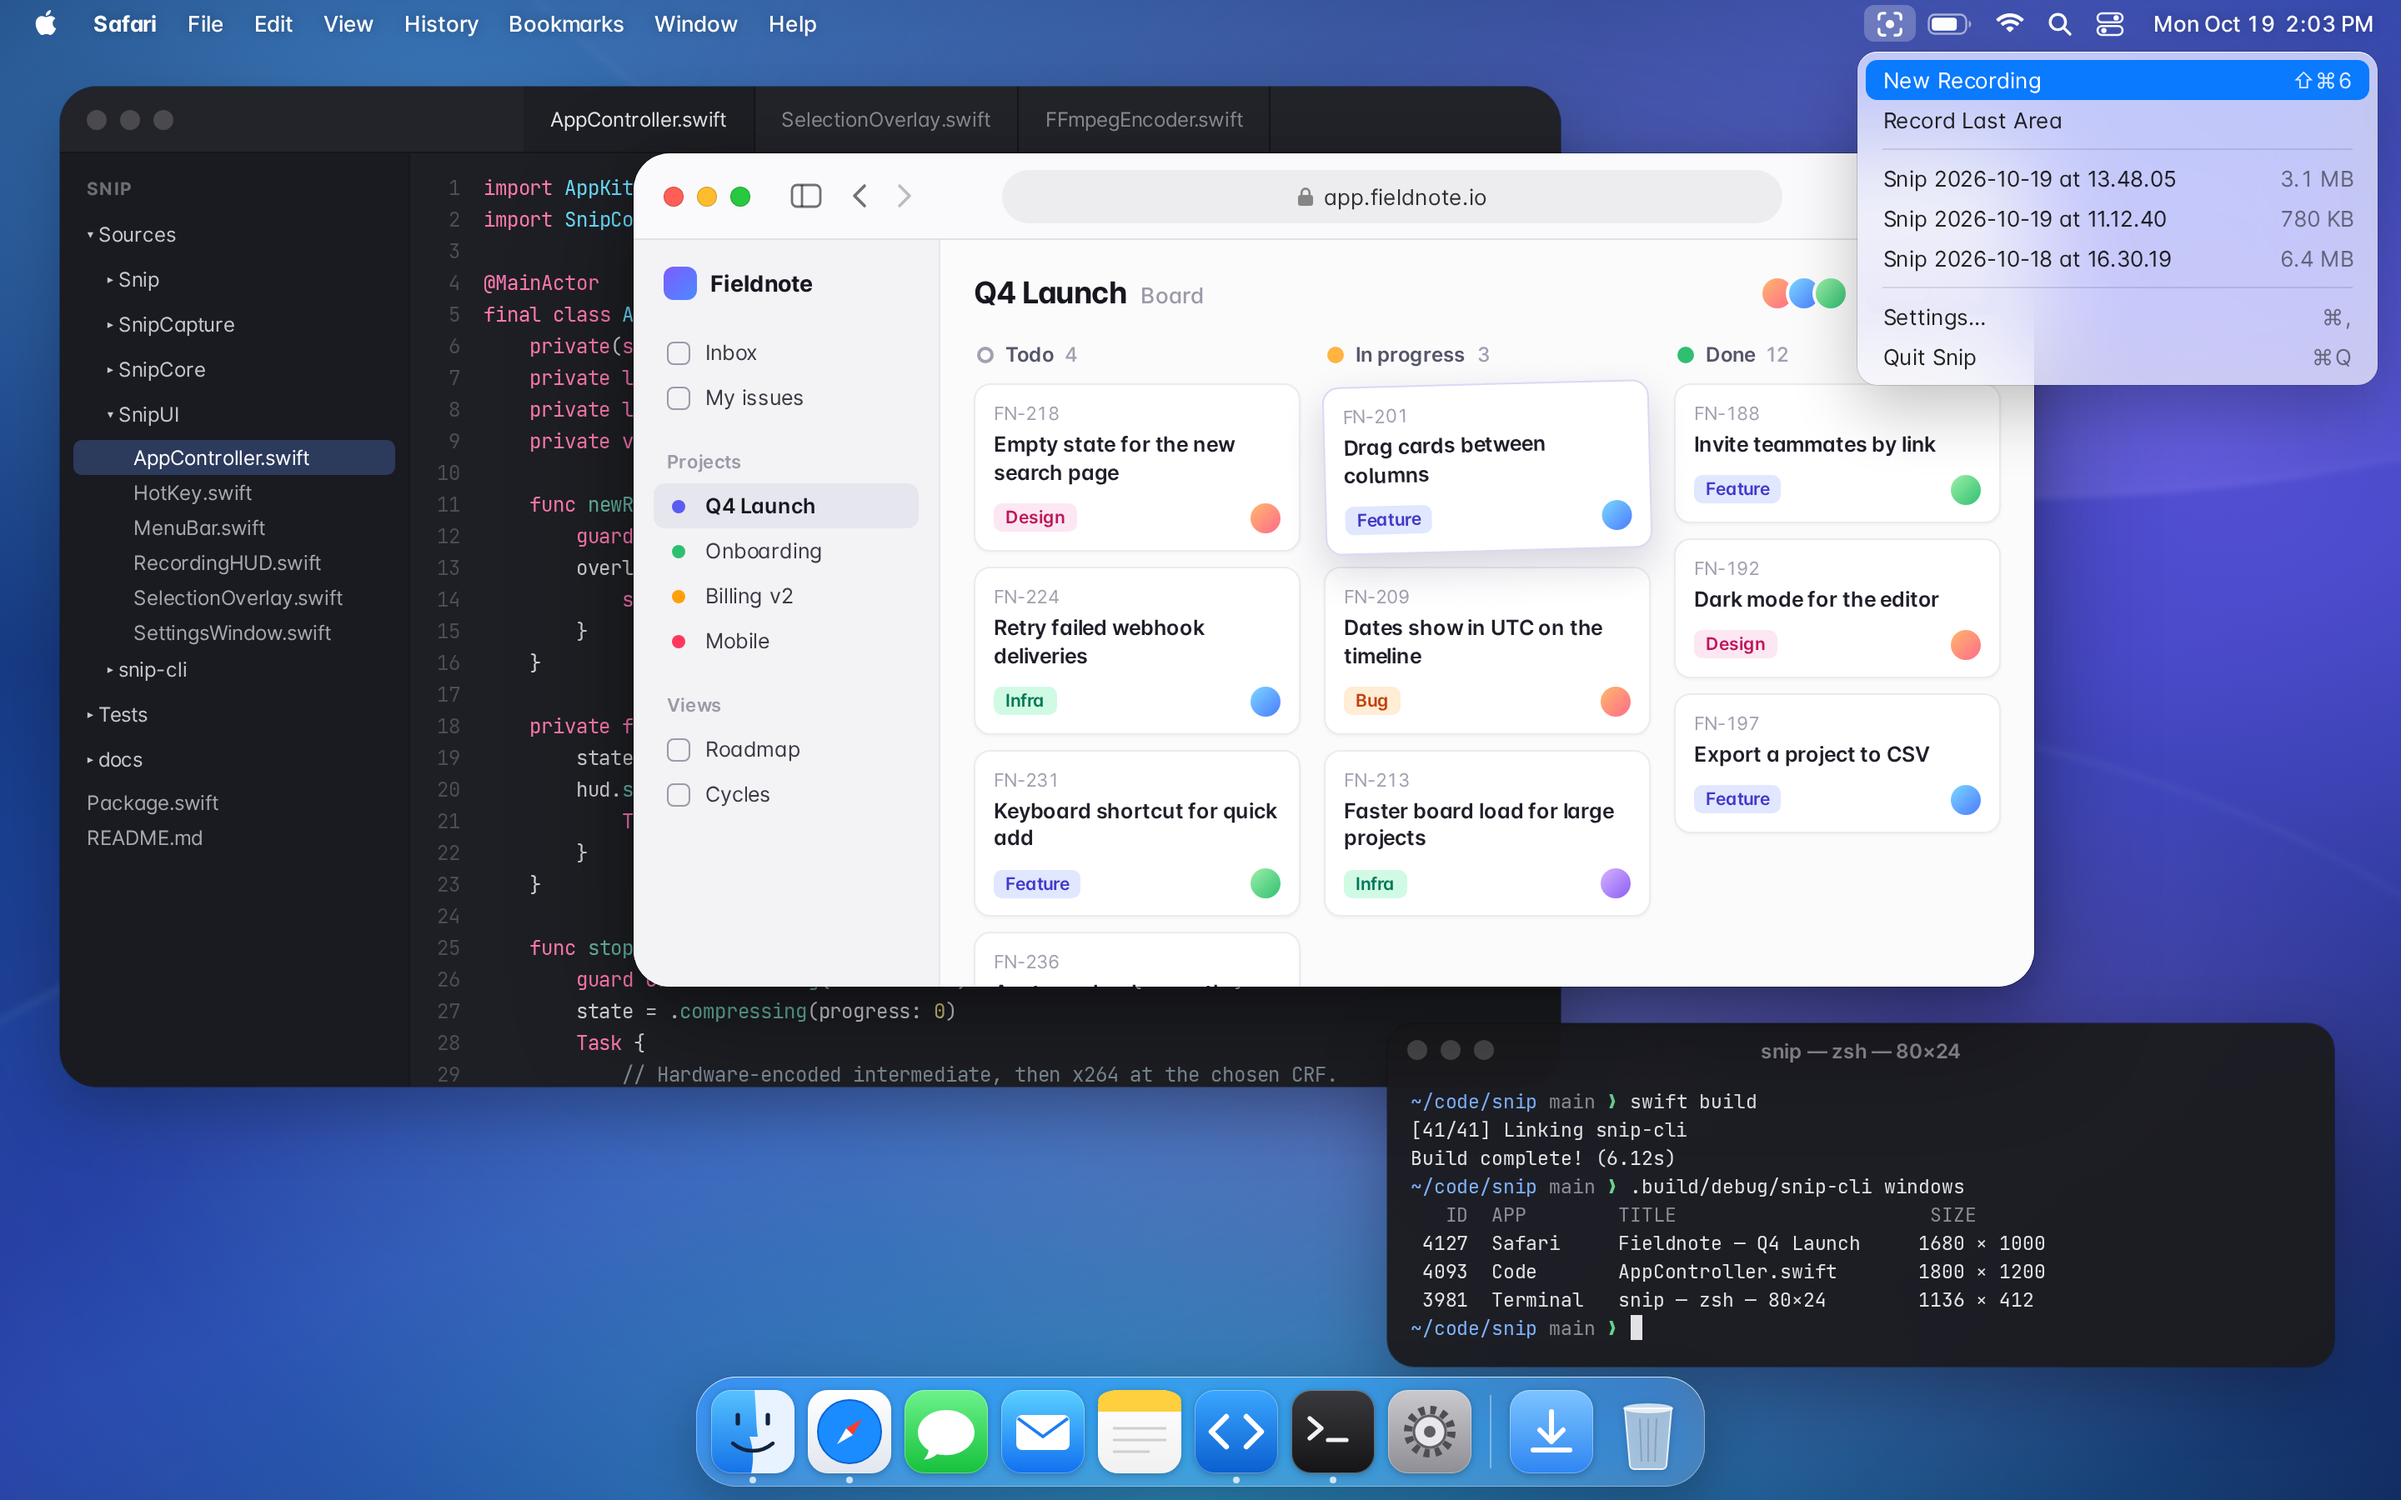
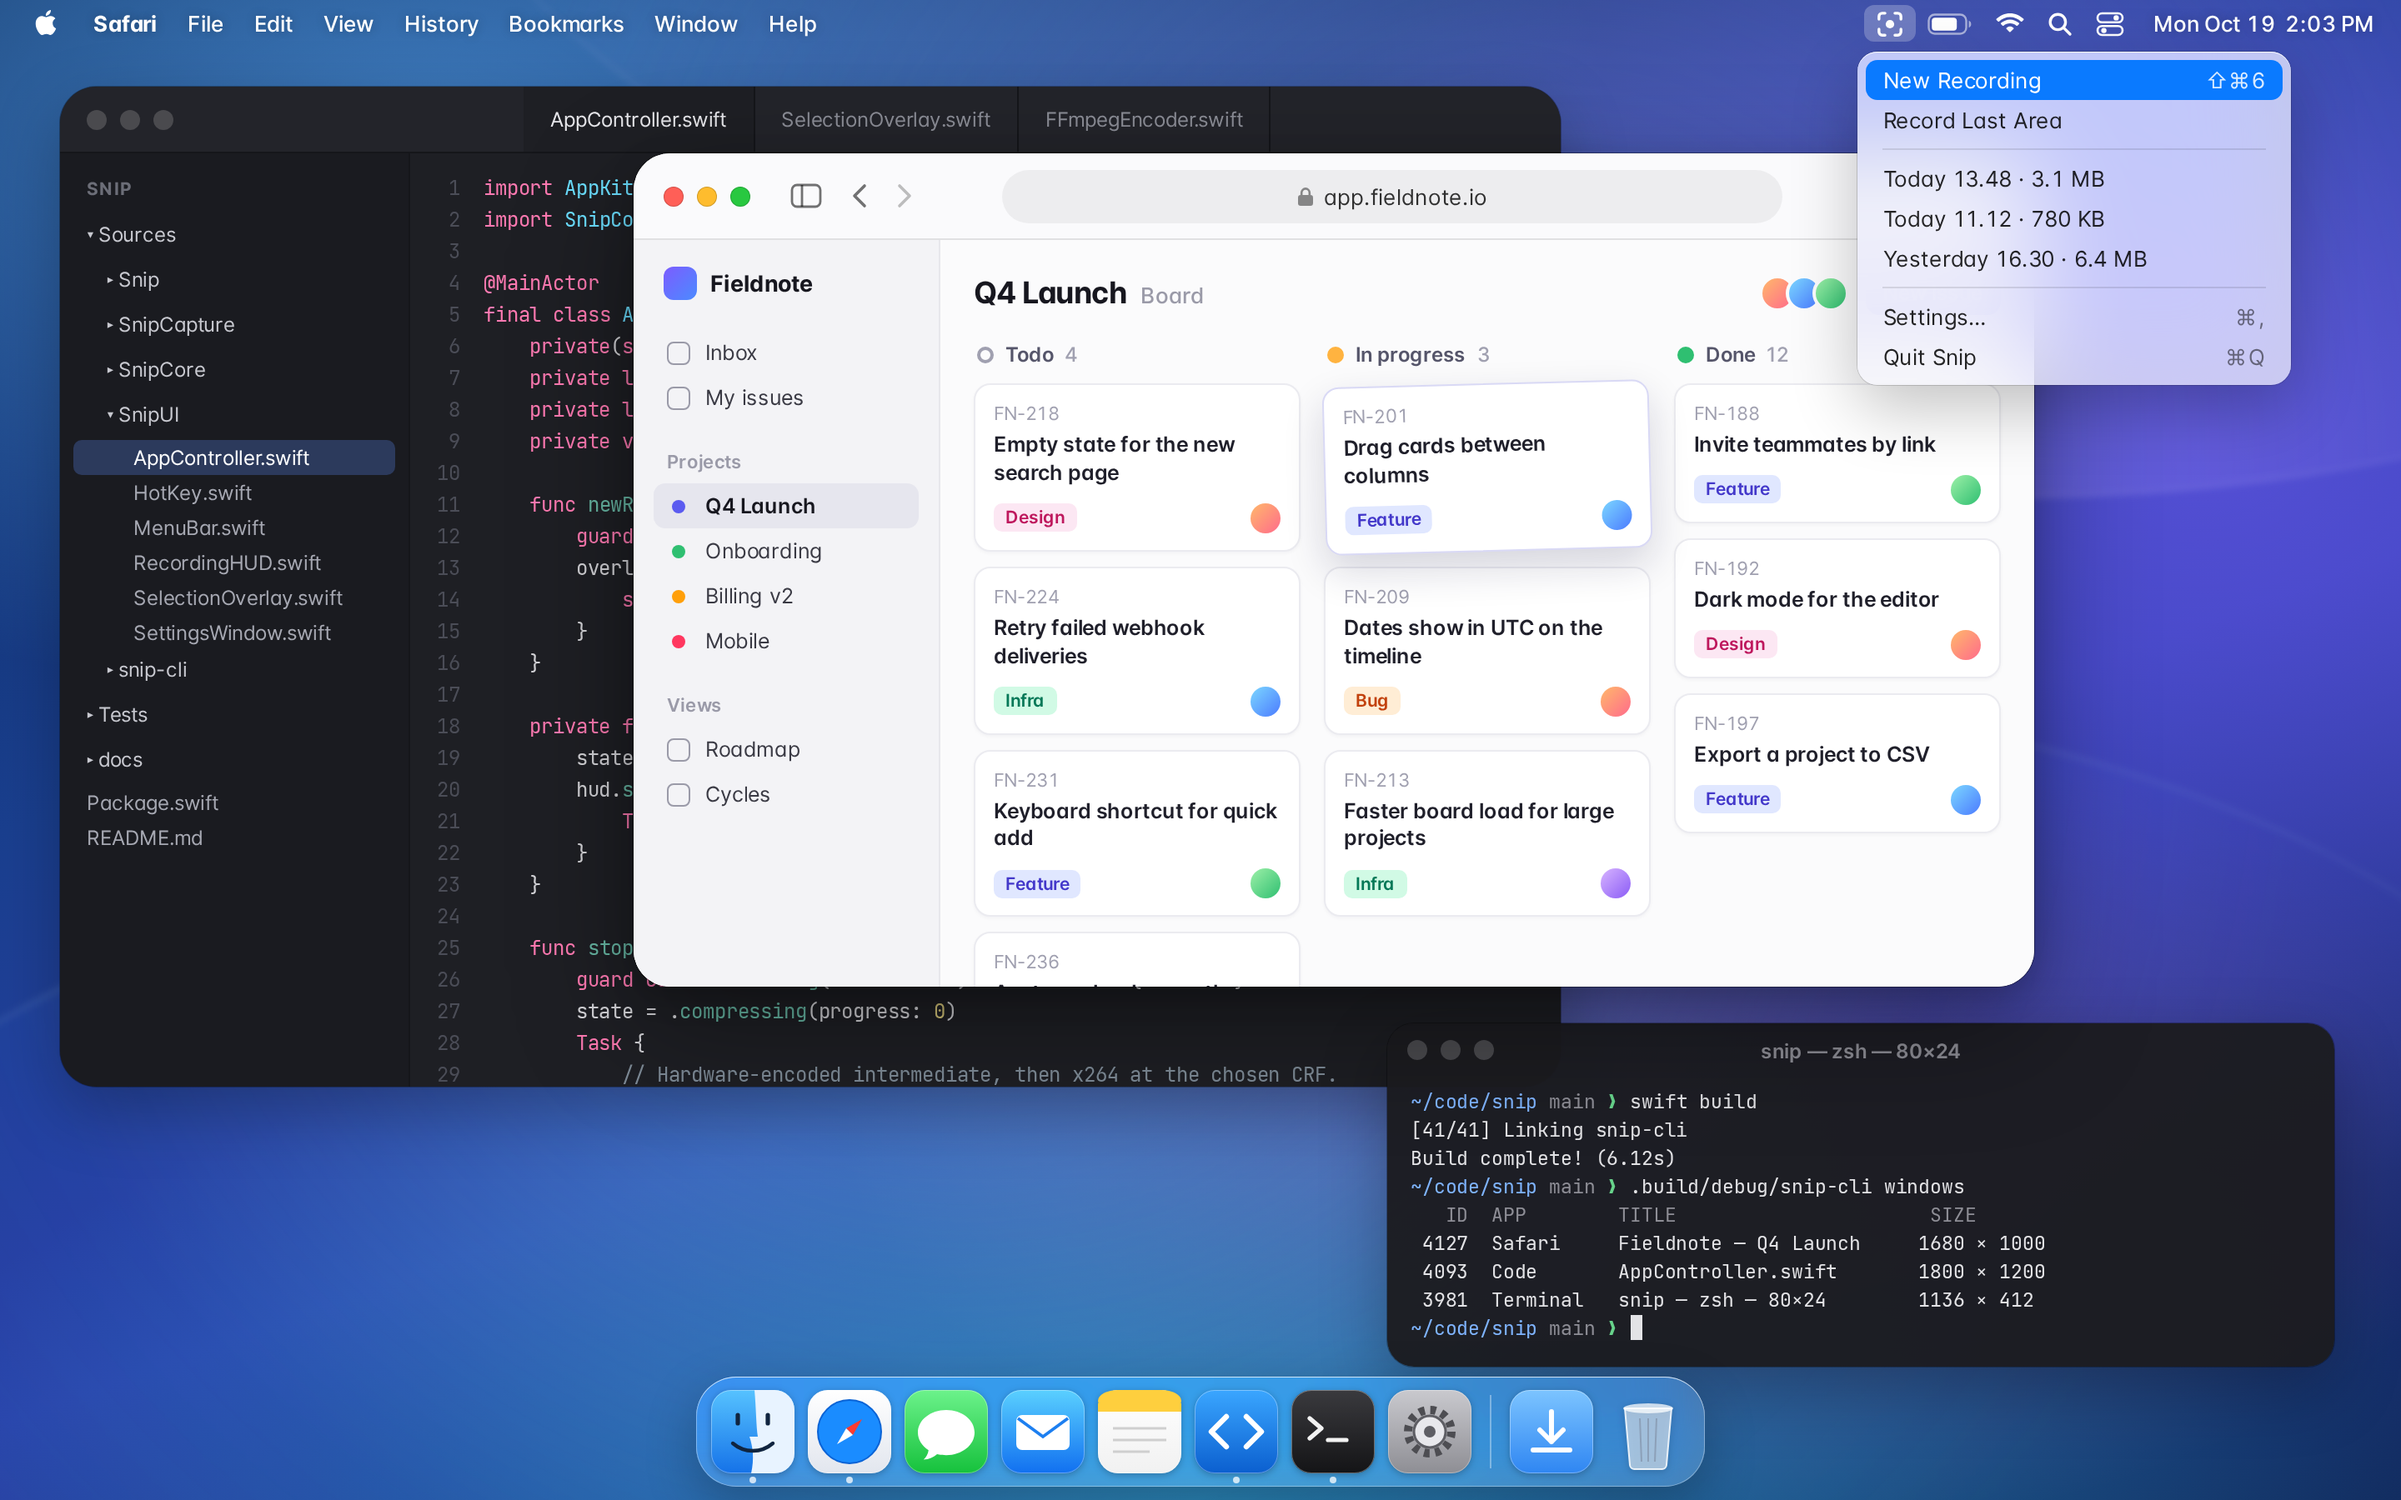
Mockups: close-ups of steps 1 to 7, red stop button while recording, shorter recent recordings

Changed region(s): [[0.9375, 0.0311, 1.0, 0.28], [0.7812, 0.0933, 0.9062, 0.1867]]

diff --git a/docs/mockups/01-menu.html b/docs/mockups/01-menu.html
@@ -1,15 +1,14 @@
 <!doctype html>
 <html><head><meta charset="utf-8"><title>1 · Menu bar menu</title>
+<meta name="mockup-closeup" content="880,0,560,420">
 <link rel="stylesheet" href="desktop.css">
 <style>
   .menu {
-    position: absolute; top: 31px; width: 312px; padding: 5px; border-radius: 12px; z-index: 60;
+    position: absolute; top: 31px; width: 260px; padding: 5px; border-radius: 12px; z-index: 60;
     font-size: 13px;
   }
   .menu .row { height: 24px; padding: 0 10px; border-radius: 7px; display: flex; align-items: center; justify-content: space-between; }
   .menu .row.hi { background: var(--accent); color: #fff; }
-  .menu .row .r { color: var(--secondary); font-variant-numeric: tabular-nums; }
-  .menu .row.hi .r { color: rgba(255, 255, 255, 0.8); }
   .menu .row .k { color: var(--secondary); letter-spacing: 0.06em; }
   .menu .row.hi .k { color: rgba(255, 255, 255, 0.85); }
   .menu hr { border: 0; height: 1px; background: rgba(0, 0, 0, 0.1); margin: 5px 10px; }
@@ -21,9 +20,9 @@
   <div class="row hi"><span>New Recording</span><span class="k">⇧⌘6</span></div>
   <div class="row"><span>Record Last Area</span></div>
   <hr>
-  <div class="row"><span>Snip 2026-10-19 at 13.48.05</span><span class="r">3.1 MB</span></div>
-  <div class="row"><span>Snip 2026-10-19 at 11.12.40</span><span class="r">780 KB</span></div>
-  <div class="row"><span>Snip 2026-10-18 at 16.30.19</span><span class="r">6.4 MB</span></div>
+  <div class="row"><span class="num">Today 13.48 · 3.1 MB</span></div>
+  <div class="row"><span class="num">Today 11.12 · 780 KB</span></div>
+  <div class="row"><span class="num">Yesterday 16.30 · 6.4 MB</span></div>
   <hr>
   <div class="row"><span>Settings…</span><span class="k">⌘,</span></div>
   <div class="row"><span>Quit Snip</span><span class="k">⌘Q</span></div>

diff --git a/docs/mockups/desktop.js b/docs/mockups/desktop.js
@@ -1,7 +1,6 @@
 // Draws the shared desktop (wallpaper, menu bar, three windows, Dock) into <div id="desktop">.
 // Each step page adds its own Snip overlay on top. Options come from <body data-*>:
 //   data-snip="idle | open | recording"  how the Snip menu bar item looks
-//   data-elapsed="0:12"                   time shown in the menu bar while recording
 
 // Geometry the step pages share, in points on the 1440 × 900 screen.
 window.GEO = {
@@ -197,9 +196,9 @@ function safari() {
   </div>`;
 }
 
-function menubar(snip, elapsed) {
+function menubar(snip) {
   const snipItem = snip === 'recording'
-    ? `<div class="item snip-rec" id="snip-item">${ICON.snip('#fff').replace('width="17" height="17"', 'width="14" height="14"')}<span class="num">${elapsed}</span></div>`
+    ? '<div class="item" id="snip-item"><span class="snip-rec"><i></i></span></div>'
     : `<div class="item ${snip === 'open' ? 'open' : ''}" id="snip-item">${ICON.snip()}</div>`;
   return `
   <div class="menubar">
@@ -229,5 +228,5 @@ window.SNIP_ICON = ICON.snip;
 (function draw() {
   const d = document.body.dataset;
   document.getElementById('desktop').innerHTML =
-    '<div class="wallpaper"></div>' + editor() + terminal() + safari() + dock() + menubar(d.snip || 'idle', d.elapsed || '0:00');
+    '<div class="wallpaper"></div>' + editor() + terminal() + safari() + dock() + menubar(d.snip || 'idle');
 })();

diff --git a/docs/mockups/desktop.css b/docs/mockups/desktop.css
@@ -78,11 +78,13 @@ body {
 .menubar .clock { padding: 0 6px 0 10px !important; }
 .menubar .item.open { background: rgba(255, 255, 255, 0.24); }
 
-/* The Snip status item while recording: red, with the elapsed time. */
+/* The Snip status item while recording: a red stop button (the pill has the time). */
 .menubar .snip-rec {
-  background: var(--record); border-radius: 6px; height: 20px; padding: 0 7px 0 6px !important;
-  font-weight: 600; text-shadow: none; gap: 5px;
+  width: 22px; height: 18px; border-radius: 5px; background: var(--record);
+  display: flex; align-items: center; justify-content: center;
+  box-shadow: 0 0 0 0.5px rgba(0, 0, 0, 0.2);
 }
+.menubar .snip-rec i { width: 8px; height: 8px; border-radius: 1.5px; background: #fff; display: block; }
 
 /* ---------- Windows ---------- */
 

diff --git a/docs/mockups/05-recording.html b/docs/mockups/05-recording.html
@@ -1,5 +1,6 @@
 <!doctype html>
 <html><head><meta charset="utf-8"><title>5 · Recording</title>
+<meta name="mockup-closeup" content="350,0,900,675">
 <link rel="stylesheet" href="desktop.css">
 <style>
   .rec-border { position: absolute; box-shadow: 0 0 0 2px var(--record), 0 0 10px rgba(255, 59, 48, 0.45); border-radius: 1px; }
@@ -9,7 +10,7 @@
   .pill .stop i { width: 9px; height: 9px; border-radius: 2px; background: #fff; display: block; }
 </style>
 </head>
-<body data-snip="recording" data-elapsed="0:12">
+<body data-snip="recording">
 <div class="stage" id="desktop"></div>
 <div class="layer">
   <div class="rec-border" id="border"></div>

diff --git a/docs/mockups/06-compressing.html b/docs/mockups/06-compressing.html
@@ -1,5 +1,6 @@
 <!doctype html>
 <html><head><meta charset="utf-8"><title>6 · Compressing</title>
+<meta name="mockup-closeup" content="350,0,900,675">
 <link rel="stylesheet" href="desktop.css">
 <style>
   .pill { padding: 0 16px; gap: 12px; }

diff --git a/docs/mockups/02-window-hover.html b/docs/mockups/02-window-hover.html
@@ -1,5 +1,6 @@
 <!doctype html>
 <html><head><meta charset="utf-8"><title>2 · Selecting: window hover</title>
+<meta name="mockup-closeup" content="350,0,900,675">
 <link rel="stylesheet" href="desktop.css">
 </head>
 <body>

diff --git a/docs/mockups/03-drag-box.html b/docs/mockups/03-drag-box.html
@@ -1,5 +1,6 @@
 <!doctype html>
 <html><head><meta charset="utf-8"><title>3 · Selecting: drag a box</title>
+<meta name="mockup-closeup" content="350,0,900,675">
 <link rel="stylesheet" href="desktop.css">
 </head>
 <body>

diff --git a/docs/mockups/07-saved.html b/docs/mockups/07-saved.html
@@ -1,5 +1,6 @@
 <!doctype html>
 <html><head><meta charset="utf-8"><title>7 · Saved notification</title>
+<meta name="mockup-closeup" content="540,0,900,675">
 <link rel="stylesheet" href="desktop.css">
 <style>
   .note {

diff --git a/docs/mockups/04-countdown.html b/docs/mockups/04-countdown.html
@@ -1,5 +1,6 @@
 <!doctype html>
 <html><head><meta charset="utf-8"><title>4 · Countdown</title>
+<meta name="mockup-closeup" content="350,0,900,675">
 <link rel="stylesheet" href="desktop.css">
 <style>
   .count {

diff --git a/docs/mockups/README.md b/docs/mockups/README.md
@@ -4,14 +4,17 @@ How Snip should look at each step of a recording, drawn as HTML on a macOS 26 de
 rendered to PNG at 1440 × 900 points, 2x. The flow they follow is the plan's
 (https://volgenic.com/pages/4b992081-efa6-4f6f-82e1-44e68dfafd88).
 
-1. `01-menu.png`: the menu bar menu, with New Recording, Record Last Area, recent recordings, Settings and Quit.
+1. `01-menu.png`: the menu bar menu, with New Recording, Record Last Area, recent recordings ("Today 13.48 · 3.1 MB"), Settings and Quit.
 2. `02-window-hover.png`: selecting; the screen dims and the window under the crosshair lights up with its name and pixel size.
 3. `03-drag-box.png`: selecting; a drawn area with eight handles and the bar under it: size, Cancel, Record.
 4. `04-countdown.png`: the countdown in the middle of the area, the rest still dimmed.
-5. `05-recording.png`: recording; a red border outside the area, the pill under it, the menu bar item red with the time.
+5. `05-recording.png`: recording; a red border outside the area, the pill under it with the time, the menu bar item a red stop button.
 6. `06-compressing.png`: the pill compressing, with progress.
 7. `07-saved.png`: the notification: saved to Downloads, file name and size, Show in Finder.
 8. `08-settings.png`: the Settings window.
+
+Steps 1 to 7 also have a `-closeup.png`: a 4:3 crop around the menu, or the window with its bar or pill, for
+viewers that draw images small.
 
 Sizes are the video's pixels at the default Full Retina setting (a 640 × 360 point area records 1280 × 720).
 
